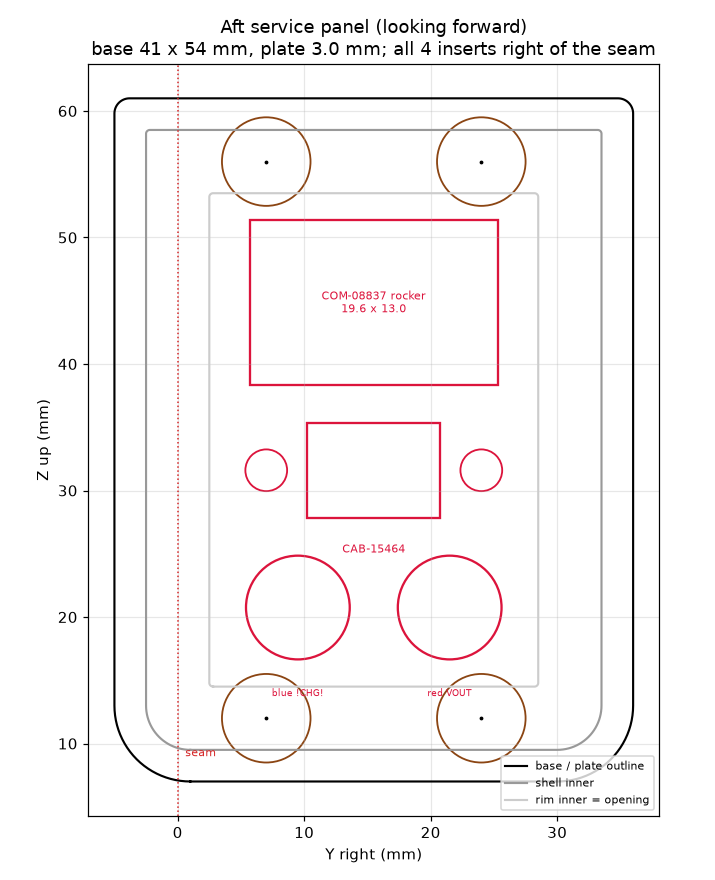
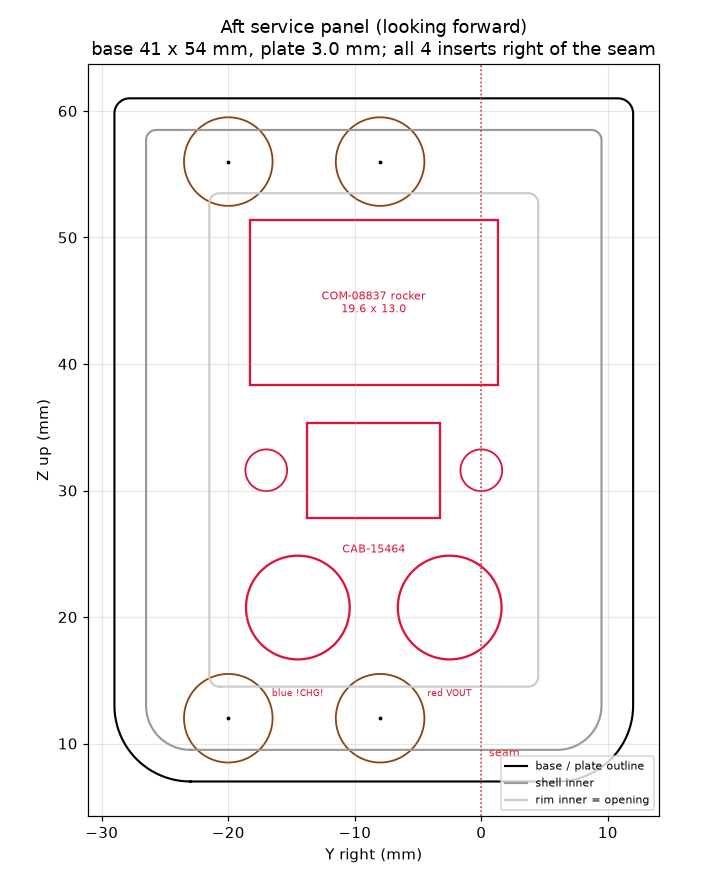
fix(enclosures): validate_pod green — tail fasteners, drain, static station
51 checks, 0 failures.  The first clean run since the clamshell inversion; every
earlier run aborted at P1/P2 before the layout checks were ever reached, which
is why this much had accumulated unseen.

Real defects:

- add_tail_rim's boss/pilot/relief block was indented UNDER the `if`, after the
  `continue` that selects which half owns a boss.  Dead code for every screw,
  so no tail boss and no pilot was built in either half and the service plate
  bolted into solid rim.  P12 was the only thing that could see it: a hole
  that was never cut looks exactly like a part that was never drilled.
- pm_tray sat 2 mm too far aft and too low; its outline fouled the plate's
  bottom flange rail.  The Pro Micro's up-edge Qwiic column overlapped the
  Boost in x by 0.27 mm, which pinned the Boost's z floor to that cable
  clearance and left column B 0.35 mm short of fitting.  Shifting the Pro
  Micro 2 mm forward clears the column in x, which is what buys the height to
  lift the tray clear of the rail by 0.60 mm.
- L3: the static array was 2 rows x 5 cols and centred in the plenum, putting
  the sensing station at 61%.  Rotated to 5 x 2 and biased to the forward wall
  — same ten holes, same flow area, and where they sit inside a sealed plenum
  is pneumatically irrelevant — so the station lands at 58%, inside the 40-60%
  band, without moving the bay, the cup or a single board.

Stale checks that never followed the inversion, all assuming the pitot still
[…]

diff --git a/enclosures/pod/validate_pod_v3_checks.py b/enclosures/pod/validate_pod_v3_checks.py
@@ -56,7 +56,13 @@ def _openings(pod):
         x, y, z = pt
         # 1. Prandtl / SUN tip mouth
         if x < pod.NOSE_BH_X1 + 1.0:
-            if math.hypot(y, z - pod.PITOT_AXIS_Z) < pod.CRADLE_R_CLAMP + 2.5:
+            # Measured from the PITOT AXIS, not from y=0.  Same stale
+            # centreline the SUN insertion probe had: the mouth moved to
+            # y=-15 with the clamshell inversion, so a sample 5.4 mm from the
+            # real axis read as 19.9 mm from the assumed one and the mouth
+            # stopped counting as a declared opening.
+            if math.hypot(y - pod.PITOT_AXIS_Y,
+                          z - pod.PITOT_AXIS_Z) < pod.CRADLE_R_CLAMP + 2.5:
                 return True
         # 2. multi-hole static array into the isolated BMP bay
         if y > pod.RIGHT_EXTENT - 4.0:
@@ -304,37 +310,46 @@ def check_tips(r, pod, left, right) -> None:
 def check_drain(r, pod, closed) -> None:
     """L8 — the drain must be a labyrinth, not a hole.
 
-    Fire a ray straight up through the outer drain hole.  If it reaches the
-    cavity without crossing material, the baffle is missing and the 'drain' is
-    a ram-air inlet.
+    The invariant is that there is no STRAIGHT path from freestream to the
+    cavity: fire a ray up through the outer drain hole and it must run into
+    the channel roof.
+
+    This used to count ray/surface crossings and demand exactly two, on the
+    reasoning that the ray sees the roof's under- and upper- surfaces.  That
+    stopped being true once the board land grew over the drain: the roof is now
+    BACKED by land rather than by air, so the ray enters material at the roof
+    and never leaves, scoring one crossing and failing a drain that is more
+    sealed than the one the check was written for.  Classify the roof directly
+    instead -- it is the actual requirement, and it does not care what is
+    stacked above.
     """
-    from OCP.BRepIntCurveSurface import BRepIntCurveSurface_Inter
-    from OCP.gp import gp_Dir, gp_Lin, gp_Pnt
+    from OCP.BRepClass3d import BRepClass3d_SolidClassifier
+    from OCP.gp import gp_Pnt
+    from OCP.TopAbs import TopAbs_IN, TopAbs_ON
 
-    shp = closed.val().wrapped
+    cls = BRepClass3d_SolidClassifier(closed.val().wrapped)
     cy = 0.5 * (pod.DRAIN_Y0 + pod.DRAIN_Y1)
-    hits = 0
+    x = pod.DRAIN_X0 + 4.0
+    solid = 0
     for dy in (-0.5, 0.0, 0.5):
-        lin = gp_Lin(gp_Pnt(pod.DRAIN_X0 + 4.0, cy + dy, -5.0), gp_Dir(0, 0, 1))
-        inter = BRepIntCurveSurface_Inter()
-        inter.Init(shp, lin, 1e-4)
-        n = 0
-        while inter.More():
-            if 0.05 < inter.W() < 5.0 + pod.DRAIN_ROOF + 2.0:
-                n += 1
-            inter.Next()
-        hits = max(hits, n)
-    # The ray goes UP THE HOLE, so it never crosses the skin — the crossings it
-    # does see are the channel roof's under- and upper- surfaces.  Roof intact
-    # => 2 crossings; roof missing => 0, a clear shot into the cavity.  (The
-    # earlier >=3 expectation wrongly counted skin surfaces the ray misses.)
-    if hits < 2:
-        r.fail(f"L8 drain is a straight path into the cavity ({hits} crossings) — "
-               "the channel roof is missing")
+        cls.Perform(gp_Pnt(x, cy + dy, pod.DRAIN_ROOF + 0.5), 1e-7)
+        if cls.State() in (TopAbs_IN, TopAbs_ON):
+            solid += 1
+    # ...and the channel below it must still be open, or the drain drains
+    # nothing.  Both halves of the labyrinth, tested where they actually are.
+    open_ch = 0
+    for dy in (-0.5, 0.0, 0.5):
+        cls.Perform(gp_Pnt(x, cy + dy, pod.INNER_Z0 + 1.0), 1e-7)
+        if cls.State() not in (TopAbs_IN, TopAbs_ON):
+            open_ch += 1
+    if solid < 3:
+        r.fail(f"L8 no channel roof over the drain hole ({solid}/3 samples "
+               f"solid at z={pod.DRAIN_ROOF + 0.5:.1f}) — it is a ram-air inlet")
+    elif open_ch < 3:
+        r.fail(f"L8 drain channel is blocked ({open_ch}/3 samples open at "
+               f"z={pod.INNER_Z0 + 1.0:.1f}) — water cannot reach the outlet")
     else:
-        r.ok(f"L8 labyrinth drain baffled: {hits} crossings above the outer hole "
-             "(channel roof intact, no straight path to the cavity)")
-
+        r.ok(f"L8 labyrinth intact: roof over the outlet, channel open beneath")
 
 def check_open_bay(r, pod, left, right) -> None:
     """I4 — the mating face must stay OPEN for install.
@@ -393,8 +408,14 @@ def check_open_bay(r, pod, left, right) -> None:
     # Stop short of the aft locating boss and use the smallest bore radius:
     # the boss is SUPPOSED to sit inside the SUN's aft cup, and the nose
     # bulkhead bore is tighter than the barrel, so neither is interference.
+    # On PITOT_AXIS_Y, not y=0.  This was written when the seam ran down the
+    # middle and the SUN sat on it; the inversion moved the pitot to y=-15 and
+    # left the probe straddling the seam, where it clipped ordinary wall in
+    # BOTH halves and reported 221/325 mm^3 of "fouling" that is simply the
+    # pod.  A tool that models the part has to move when the part moves.
     sun = (cq.Workplane("XY")
-           .transformed(offset=(0.0, 0.0, pod.PITOT_AXIS_Z), rotate=(0, 90, 0))
+           .transformed(offset=(0.0, pod.PITOT_AXIS_Y, pod.PITOT_AXIS_Z),
+                        rotate=(0, 90, 0))
            .circle(pod.CRADLE_R_SMOOTH)
            .extrude(pod.AFT_BH_X0 - pod.SUN_RECESS_BOSS_LEN - 1.0))
     # The flange screw bosses legitimately survive inside the battery pocket —

diff --git a/enclosures/pod/wing_pod_v3.py b/enclosures/pod/wing_pod_v3.py
@@ -288,8 +288,14 @@ CUP_TAB = 3.0       # screw tab reach beyond the cup wall
 CUP_FLANGE = 2.5    # flange thickness where it seals to the land
 STATIC_COVER_T = 2.2
 STATIC_HOLE_D = 1.6
-STATIC_HOLE_ROWS = 2
-STATIC_HOLE_COLS = 5
+# 5 rows x 2 cols, not 2 x 5.  Same ten holes and the same flow area, but the
+# array is now tall and narrow instead of wide and short, so its x-centre sits
+# 18 mm further forward in the plenum.  That, plus biasing it to the forward
+# wall, is what brings the sensing station inside L3's 40-60% band; a wide
+# array simply cannot get far enough forward without hanging off the plenum.
+# The plenum is ~26 mm tall, so 5 rows at 4.5 mm pitch still clears both walls.
+STATIC_HOLE_ROWS = 5
+STATIC_HOLE_COLS = 2
 STATIC_HOLE_PITCH_X = 4.5
 STATIC_HOLE_PITCH_Z = 4.5
 
@@ -432,7 +438,15 @@ BATT_Y0 = -24.0
 BATT_Z0 = (OUTER_H - BATT_POCKET_Z) / 2
 
 # Static ports sit mid-body, where a side port reads closest to freestream.
-STATIC_PORT_X = 0.5 * (BAY_X0 + BAY_X1)
+# Biased to the FORWARD end of the plenum rather than centred in it.  L3 wants
+# the sensing station in the 40-60% band, where a side port reads closest to
+# freestream, and a centred array put it at 61%.  Where the holes sit inside a
+# sealed plenum is pneumatically irrelevant -- the plenum is one volume and the
+# BMP581 reads its pressure, not the pressure at any one hole -- so this buys
+# the band back without moving the bay, the cup, or a single board.  Kept a
+# hole-pitch clear of the plenum wall so the array stays over open volume.
+_STATIC_SPAN_X = (STATIC_HOLE_COLS - 1) * STATIC_HOLE_PITCH_X
+STATIC_PORT_X = BAY_X0 + STATIC_HOLE_PITCH_X + _STATIC_SPAN_X / 2
 STATIC_PORT_Z = BMP_Z0 + BMP581_W / 2
 
 # Flange runs from just aft of the nose fairing to just short of the base.
@@ -1745,35 +1759,40 @@ def add_tail_rim(body: cq.Workplane, side: int) -> cq.Workplane:
         .intersect(_keep_half(side))
     )
     body = _union_if_solid(body, rim)
-    if True:
-        # A boss belongs to whichever half its y lies in.  Hard-coding side>0
-        # was fine while the plate was the deep half; now the aft screws are in
-        # the bowl and four bosses were being built into the plate, where they
-        # had nothing to attach to (P1 caught them as 997 mm^3 of loose solids).
-        for cy, cz in TAIL_SCREWS:
-            if (cy > 0) != (side > 0):
-                continue
-                boss = (
-                    cq.Workplane("XY")
-                    .transformed(offset=(OUTER_L - TAIL_RIM_T, cy, cz), rotate=(0, 90, 0))
-                    .circle(BOSS_D / 2)
-                    .extrude(TAIL_RIM_T)
-                )
-                body = _union_if_solid(body, boss.intersect(full_body_solid(0.0)))
-                pilot = (
-                    cq.Workplane("XY")
-                    .transformed(offset=(OUTER_L - INS_DEPTH, cy, cz), rotate=(0, 90, 0))
-                    .circle(INS_HOLE_D / 2)
-                    .extrude(INS_DEPTH + 1.0)
-                )
-                relief = (
-                    cq.Workplane("XY")
-                    .transformed(offset=(OUTER_L - INS_DEPTH - SCREW_RELIEF_EXTRA, cy, cz),
-                                 rotate=(0, 90, 0))
-                    .circle(SCREW_RELIEF_D / 2)
-                    .extrude(INS_DEPTH + SCREW_RELIEF_EXTRA + 1.0)
-                )
-                body = body.cut(relief).cut(pilot)
+    # A boss belongs to whichever half its y lies in.  Hard-coding side>0 was
+    # fine while the plate was the deep half; now the aft screws are all in the
+    # bowl, and four bosses were being built into the plate where they had
+    # nothing to attach to (P1 caught them as 997 mm^3 of loose solids).
+    #
+    # The guard that fixed that left this whole block indented UNDER the `if`,
+    # after the `continue` -- dead code for every screw, so no boss and no
+    # pilot was built in either half and the service plate bolted into solid
+    # rim.  P12 caught it; nothing else could, because a missing hole looks
+    # exactly like a part that was never drilled.
+    for cy, cz in TAIL_SCREWS:
+        if (cy > 0) != (side > 0):
+            continue
+        boss = (
+            cq.Workplane("XY")
+            .transformed(offset=(OUTER_L - TAIL_RIM_T, cy, cz), rotate=(0, 90, 0))
+            .circle(BOSS_D / 2)
+            .extrude(TAIL_RIM_T)
+        )
+        body = _union_if_solid(body, boss.intersect(full_body_solid(0.0)))
+        pilot = (
+            cq.Workplane("XY")
+            .transformed(offset=(OUTER_L - INS_DEPTH, cy, cz), rotate=(0, 90, 0))
+            .circle(INS_HOLE_D / 2)
+            .extrude(INS_DEPTH + 1.0)
+        )
+        relief = (
+            cq.Workplane("XY")
+            .transformed(offset=(OUTER_L - INS_DEPTH - SCREW_RELIEF_EXTRA, cy, cz),
+                         rotate=(0, 90, 0))
+            .circle(SCREW_RELIEF_D / 2)
+            .extrude(INS_DEPTH + SCREW_RELIEF_EXTRA + 1.0)
+        )
+        body = body.cut(relief).cut(pilot)
     return body
 
 
